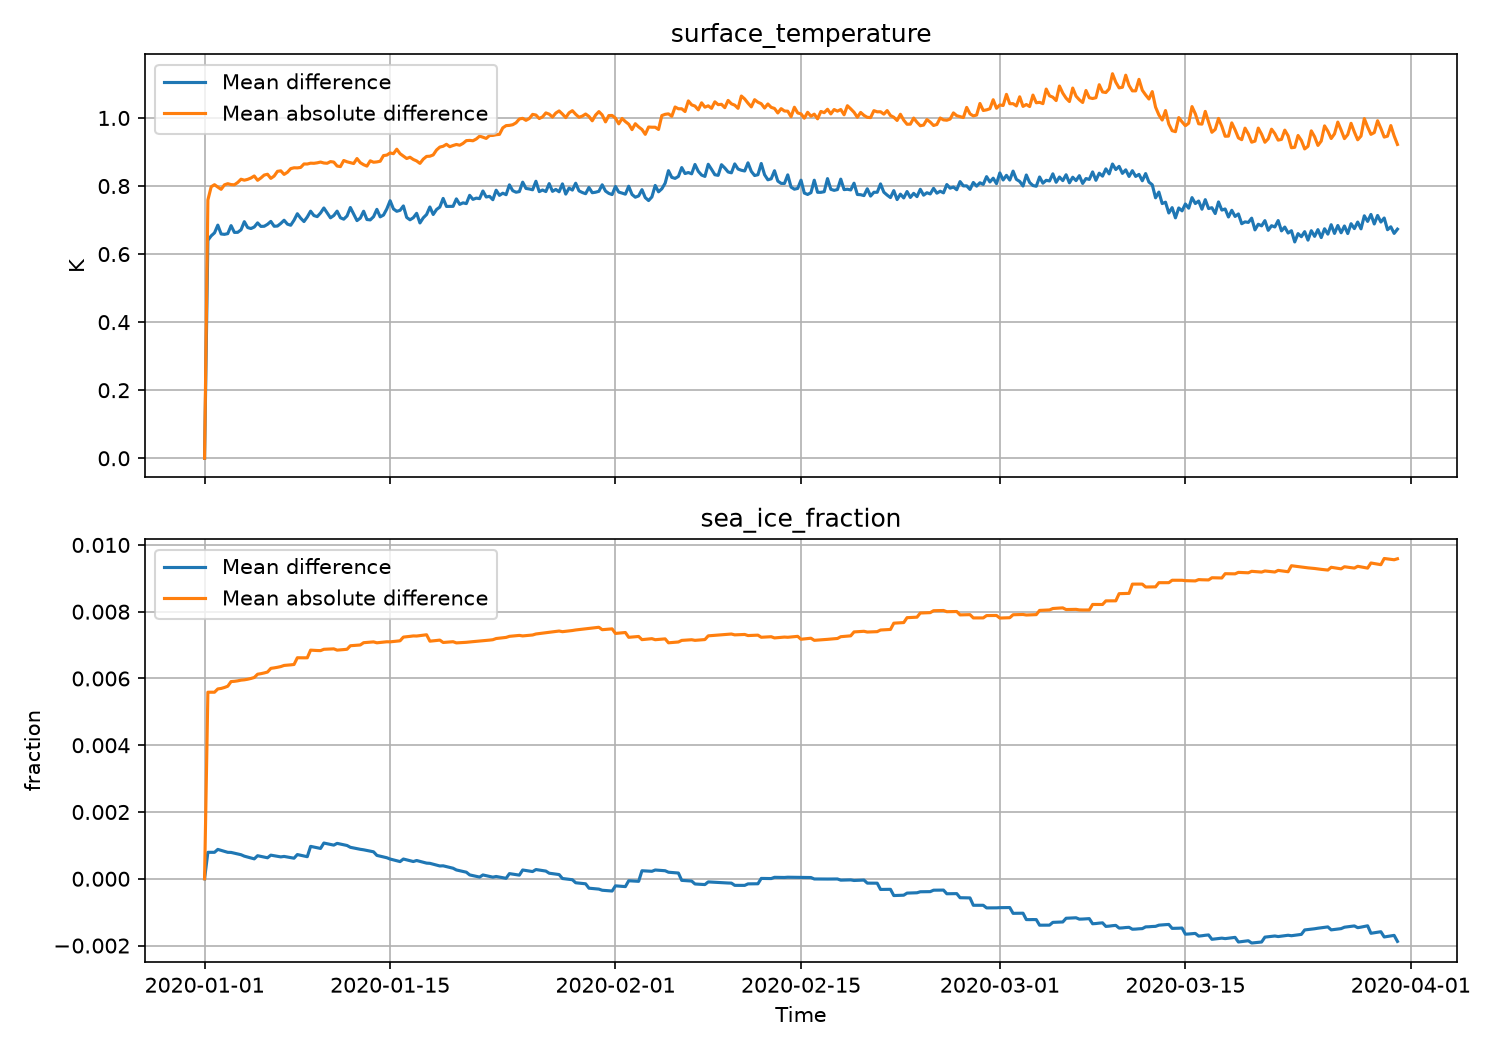
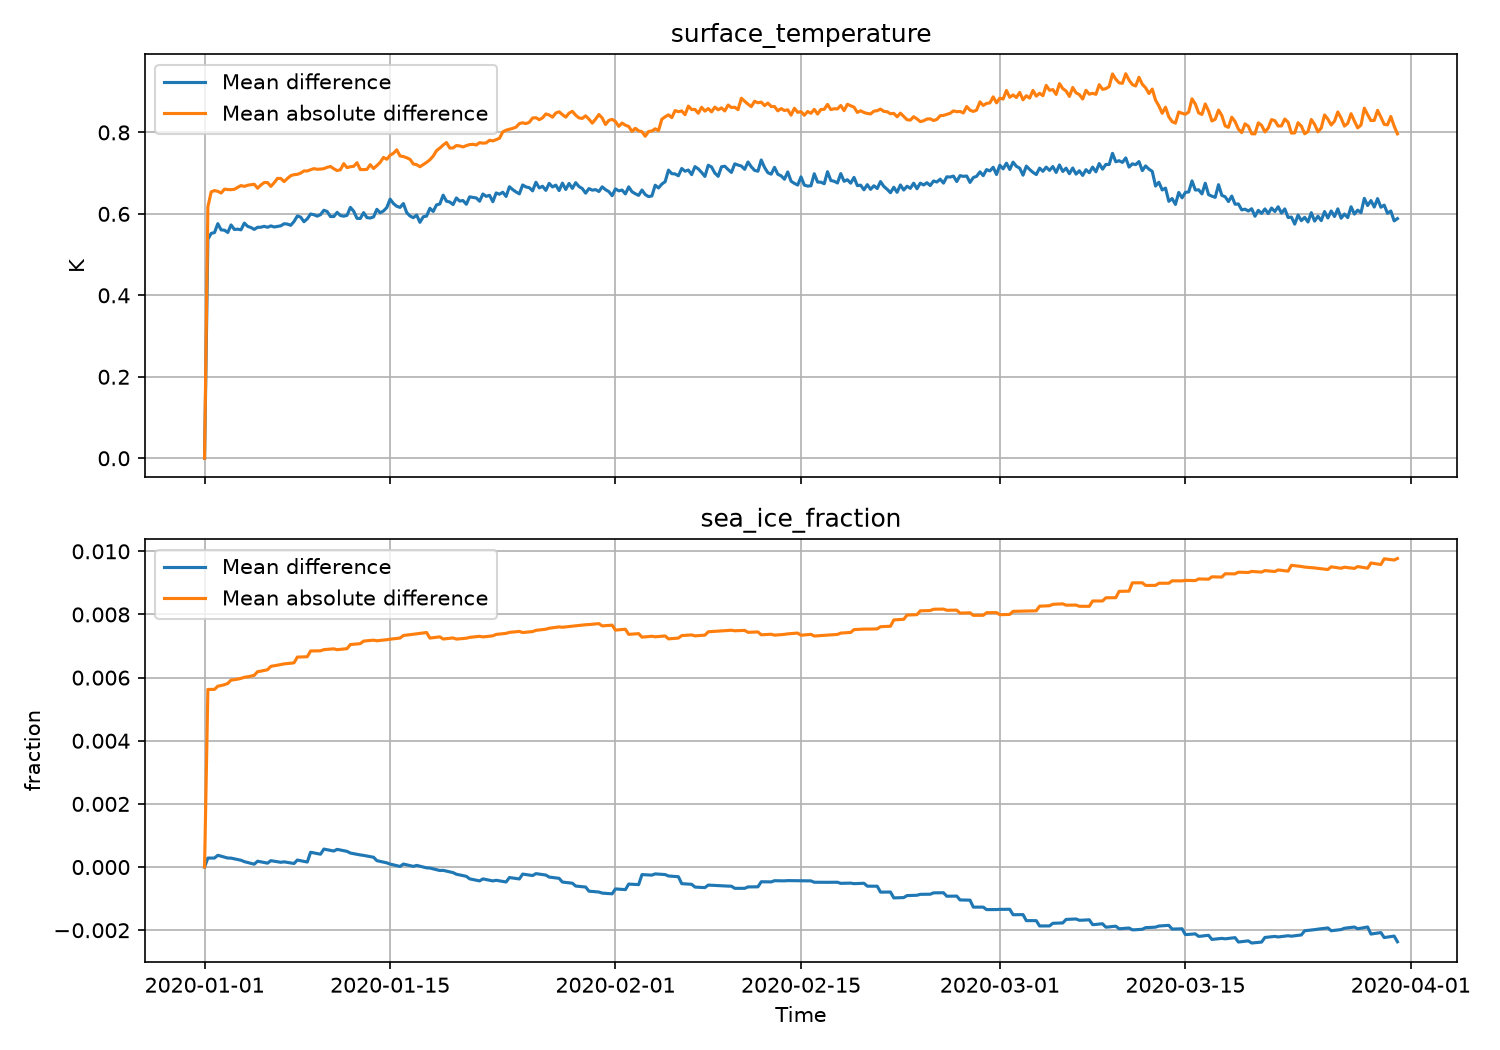
cdo regrid

diff --git a/gen_forcing.py b/gen_forcing.py
@@ -4,8 +4,8 @@ import xarray as xr
 
 
 TEMPLATE = "forcing_data/forcing_2020.nc"
-SST_FILE = "sst_mean.nc"
-ICE_FILE = "sea_ice_mean_6h.nc"
+SST_FILE = "sst_mean_ace_grid.nc"
+ICE_FILE = "sea_ice_mean_6h_ace_grid.nc"
 
 OUTPUT = Path("ecmwf_forcing/forcing_2020-01-01.nc")
 OUTPUT.parent.mkdir(exist_ok=True)
@@ -15,31 +15,30 @@ sst_ds = xr.open_dataset(SST_FILE)
 ice_ds = xr.open_dataset(ICE_FILE)
 
 sst = sst_ds["sst"].isel(forecast_reference_time=0, drop=True)
-ice = (
-    ice_ds["siconc"]
-    .isel(
-        forecast_reference_time=0,
-        drop=True,
-    )
-    .clip(0.0, 1.0)
+ice = ice_ds["siconc"].isel(
+    forecast_reference_time=0,
+    drop=True,
+).clip(0.0, 1.0)
+
+# CDO may round Gaussian latitude values slightly.
+sst = sst.assign_coords(
+    latitude=template.latitude,
+    longitude=template.longitude,
 )
-
-valid_times = sst_ds["valid_time"].values
-
-sst = sst.isel(latitude=slice(None, None, -1)).assign_coords(
+ice = ice.assign_coords(
     latitude=template.latitude,
     longitude=template.longitude,
 )
 
-ice = ice.isel(latitude=slice(None, None, -1)).assign_coords(
-    latitude=template.latitude,
-    longitude=template.longitude,
-)
+reference_time = sst_ds.forecast_reference_time.values[0]
+valid_times = reference_time + sst_ds.forecast_period.values
 
 sst = sst.rename(forecast_period="time").assign_coords(time=valid_times)
 ice = ice.rename(forecast_period="time").assign_coords(time=valid_times)
 
-all_times = template.time.sel(time=slice("2020-01-01T00:00:00", valid_times[-1]))
+all_times = template.time.sel(
+    time=slice("2020-01-01T00:00:00", valid_times[-1])
+)
 
 out = template.sel(time=all_times).copy()
 
@@ -51,12 +50,18 @@ out["surface_temperature"].loc[{"time": valid_times}] = xr.where(
     out["surface_temperature"].sel(time=valid_times),
 )
 
-encoding = {name: {"zlib": True, "complevel": 4} for name in out.data_vars}
+encoding = {
+    name: {"zlib": True, "complevel": 4}
+    for name in out.data_vars
+}
 
 encoding["time"] = {
-    key: template["time"].encoding[key]
+    key: template.time.encoding[key]
     for key in ("units", "calendar", "dtype")
-    if key in template["time"].encoding
+    if key in template.time.encoding
 }
 
 out.to_netcdf(OUTPUT, encoding=encoding)
+
+print(f"Saved {OUTPUT}")
+print(out)

diff --git a/check_regrid.py b/check_regrid.py
@@ -1,0 +1,23 @@
+import numpy as np
+import xarray as xr
+
+ace = xr.open_dataset("forcing_data/forcing_2020.nc")
+sst = xr.open_dataset("sst_mean_ace_grid.nc")
+ice = xr.open_dataset("sea_ice_mean_6h_ace_grid.nc")
+
+for name, ds in [("sst", sst), ("ice", ice)]:
+    print(name)
+    print("orientation:", ds.latitude.values[[0, -1]])
+    print(
+        "max latitude difference:",
+        np.max(np.abs(ds.latitude.values - ace.latitude.values)),
+    )
+    print(
+        "close:",
+        np.allclose(
+            ds.latitude.values,
+            ace.latitude.values,
+            rtol=0,
+            atol=1e-10,
+        ),
+    )
